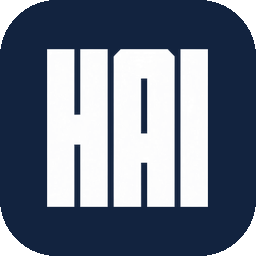
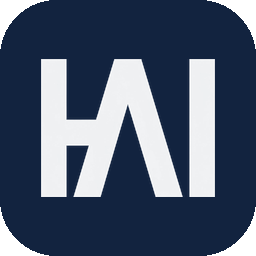
feat: 品牌图改为 HAI 连笔字标 (v1.0.8)

Changed region(s): [[0.1562, 0.1875, 0.8438, 0.8125]]

diff --git a/README.md b/README.md
@@ -56,6 +56,9 @@
 
 ## 更新日志
 
+### v1.0.8
+- 品牌图换成新版 HAI 连笔字标：H 的横笔直接延伸成 A 的左斜笔，A 为钝角三角，I 为独立竖笔，字标 “HA AI” 居中排在字形下方。图标仍是深空蓝 `#12233F` 圆角底 + 反白字形，`logo.png` / `dark_logo.png` 为 238×256，`@2x` 为 476×512，全部透明 PNG、裁剪到最紧。
+
 ### v1.0.7
 - 加入品牌图：`custom_components/ha_ai/brand/` 放 `icon.png`（256×256）/ `icon@2x.png`（512×512）/ `logo.png`（594×256）/ `logo@2x.png`（1187×512），外加深色主题用的 `dark_logo.png` 与 `dark_logo@2x.png`。HA 2026.3 起本地 `brand/` 目录自动优先于 brands CDN，集成卡片、设备页和语音助手列表直接显示新标志。
 - 标志为 H、A、I 三字母共笔构成的正方形字标：字形笔等宽、硬切方角、共享基线，白底黑色横版组合中标出现在右侧；图标为深空蓝圆角底 + 反白字形。无第三方素材、无官方品牌图。
